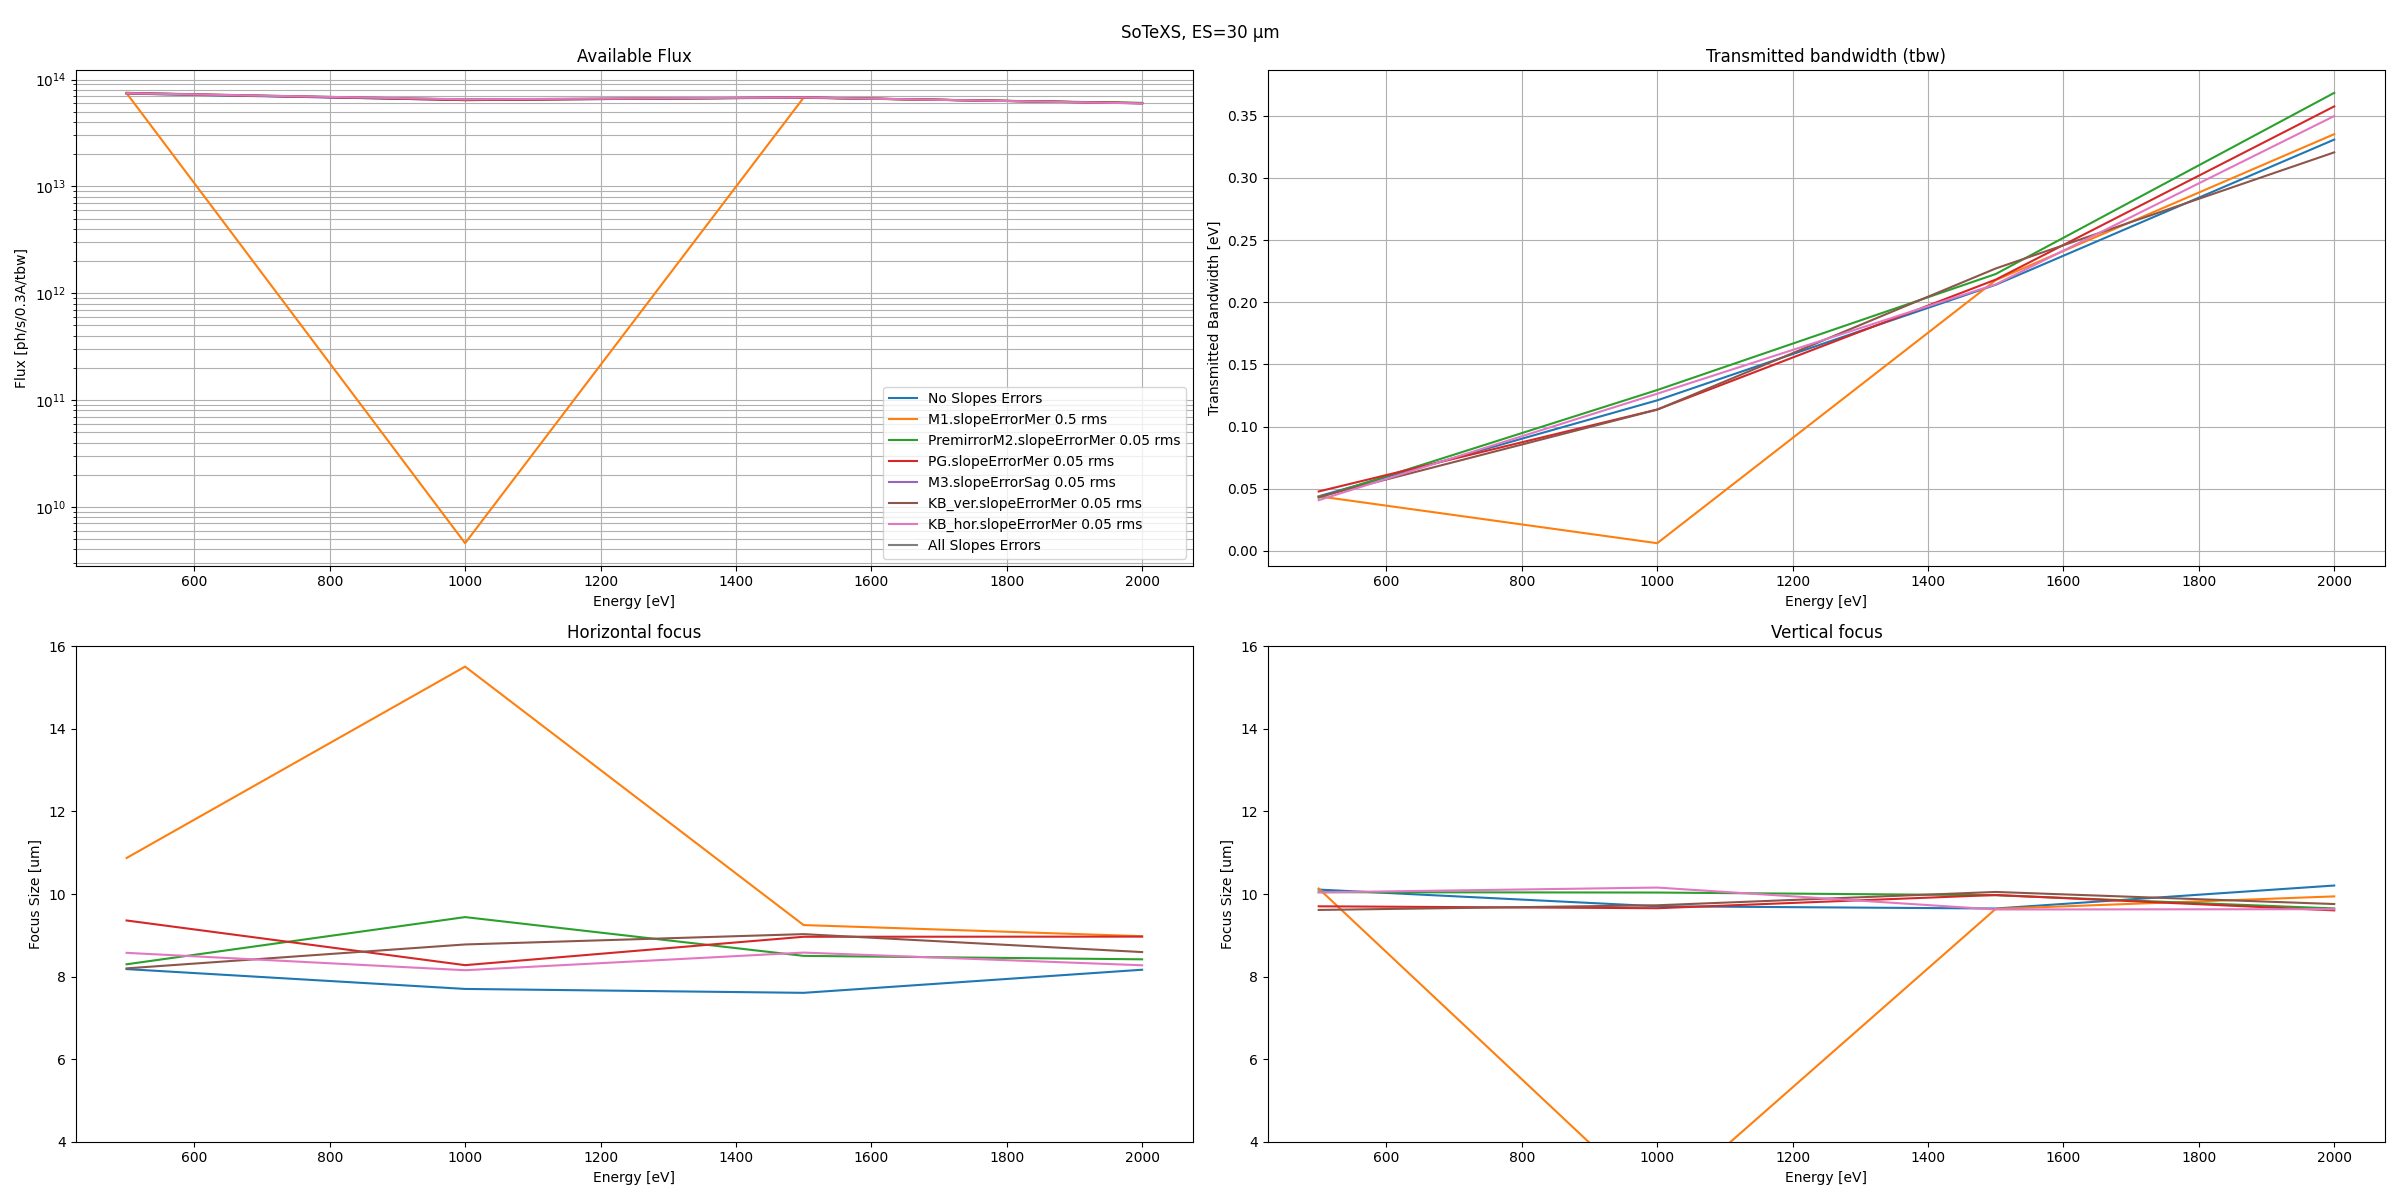
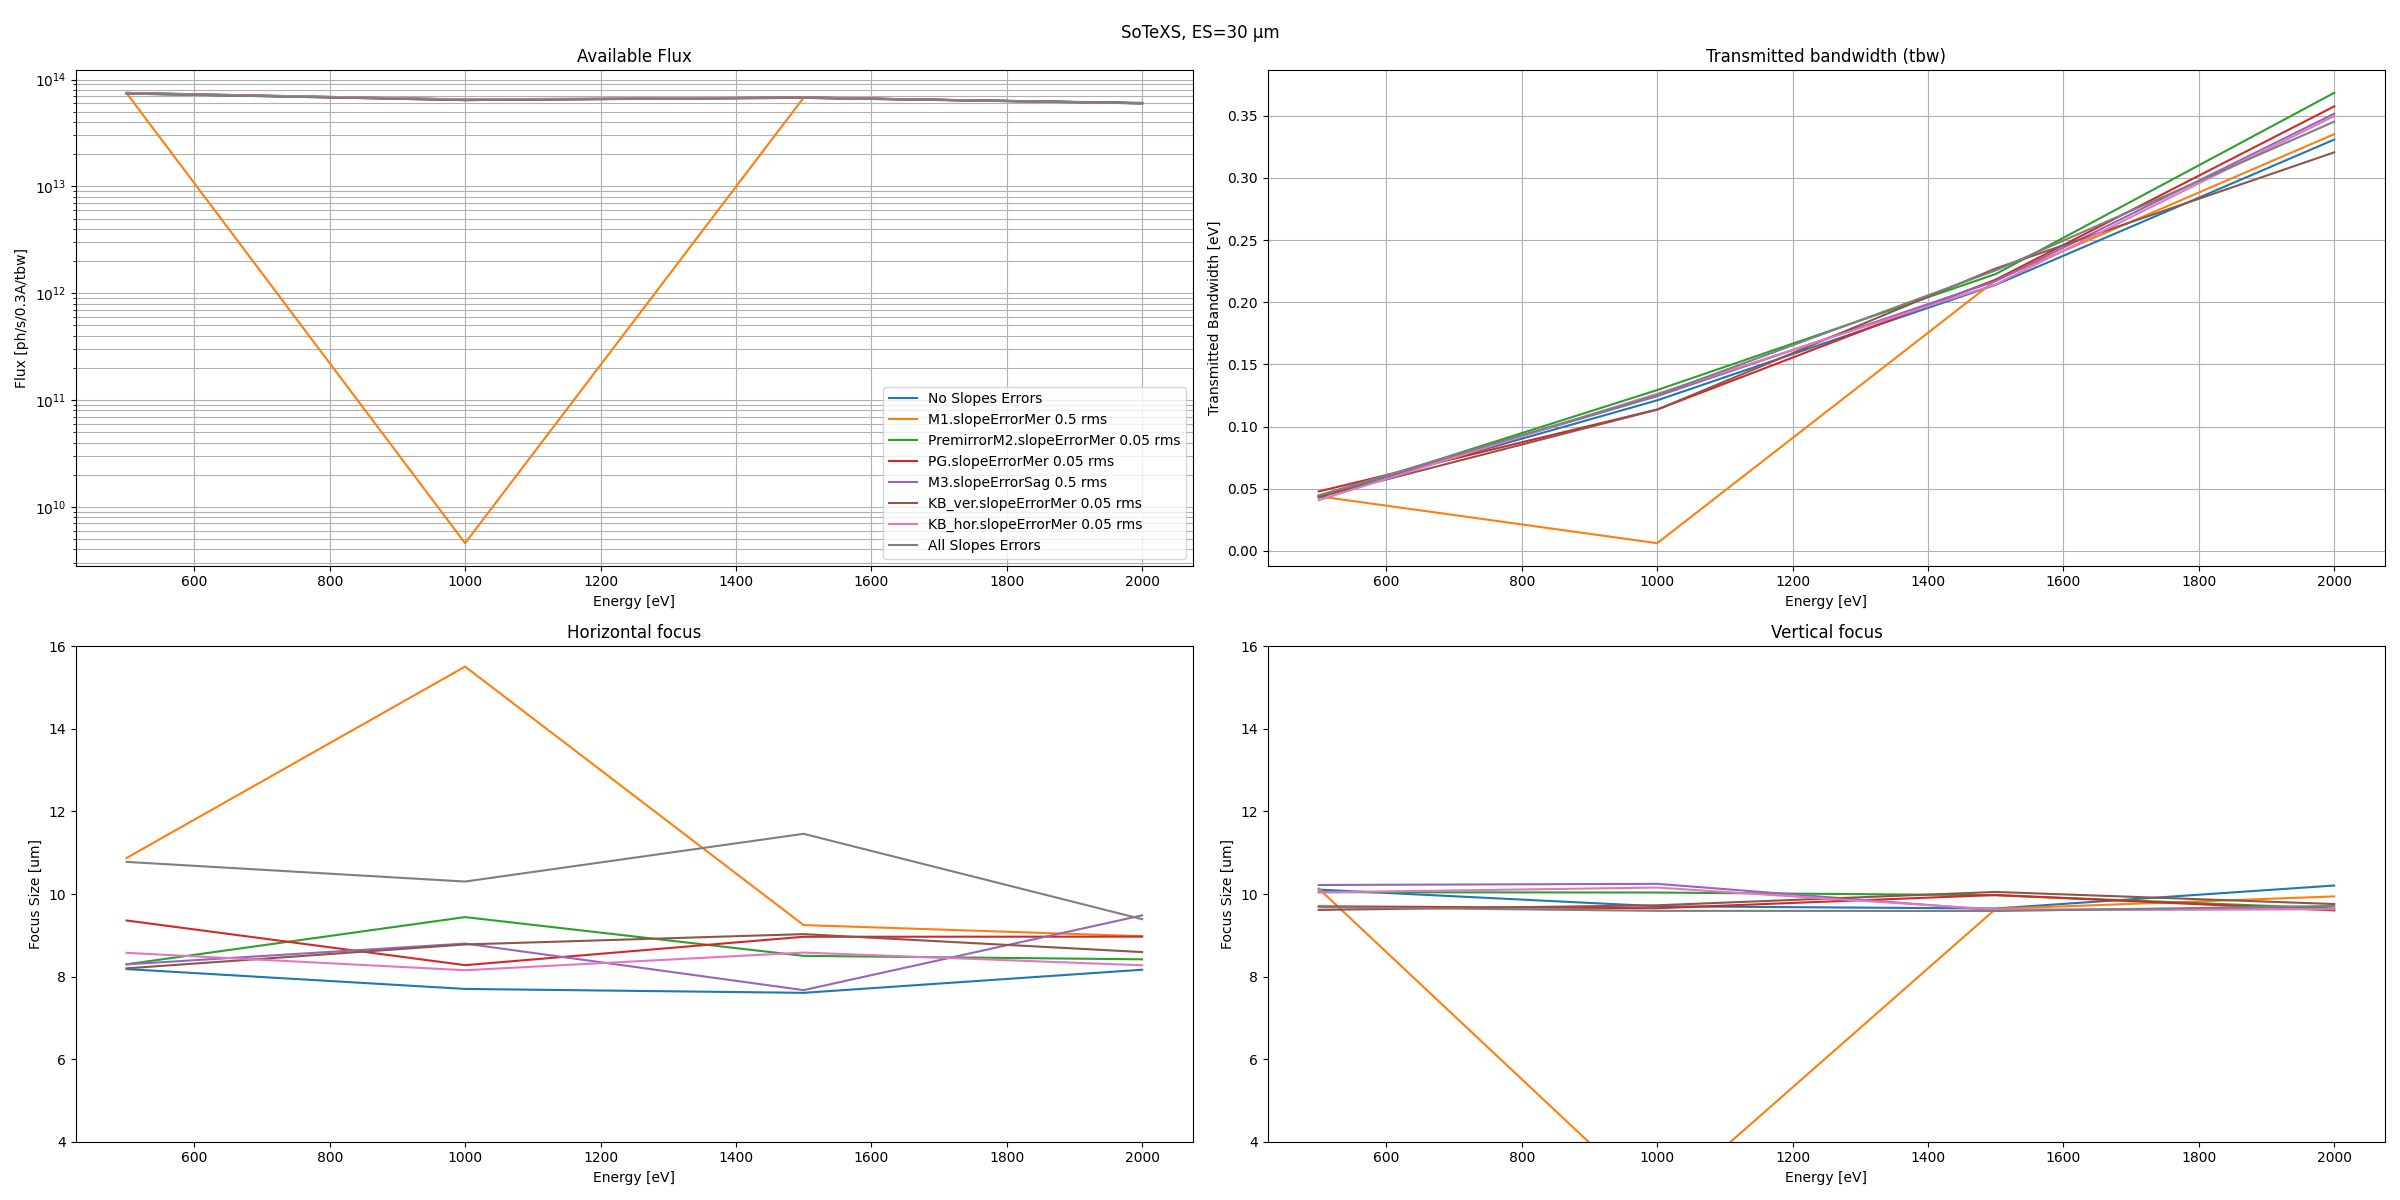
correct eval function

diff --git a/simulation/12/slopes_helper.py b/simulation/12/slopes_helper.py
@@ -17,11 +17,13 @@ def filter_df(df, col_to_set=None, value=None):
     filtered_df = df[mask.all(axis=1)]
     return filtered_df
 
-def filter_df_by_values(df, col_values):
+def filter_df_by_values(df, col_values, atol=1e-8, debug=False):
     """
     Filter the DataFrame by specifying a dictionary of {column: value} pairs.
-    Only rows matching all specified values will be returned.
+    Uses np.isclose for float comparisons.
+    If debug=True, prints matching info for each column.
     """
+    import numpy as np
     cols = [
         'M1.slopeErrorMer',
         'PremirrorM2.slopeErrorMer',
@@ -31,9 +33,19 @@ def filter_df_by_values(df, col_values):
         'KB_hor.slopeErrorMer'
     ]
     mask = pd.Series([True] * len(df), index=df.index)
+    if debug:
+        print("DEBUG: Unique values and matches per column:")
     for col, val in col_values.items():
         if col in cols:
-            mask &= (df[col] == val)
+            if np.issubdtype(df[col].dtype, np.floating):
+                col_mask = np.isclose(df[col], val, atol=atol)
+            else:
+                col_mask = (df[col] == val)
+            mask &= col_mask
+            if debug:
+                print(f"{col}: unique={df[col].unique()} | looking for {val} | matches={col_mask.sum()} | running total={mask.sum()}")
+    if debug:
+        print(f"DEBUG: Final number of matching rows: {mask.sum()}")
     filtered_df = df[mask]
     return filtered_df
 

diff --git a/simulation/12/eval_1200_slopes.py b/simulation/12/eval_1200_slopes.py
@@ -22,7 +22,7 @@ el_dict = {
         'M1.slopeErrorMer':0.5,
         'PremirrorM2.slopeErrorMer':0.05,
         'PG.slopeErrorMer':0.05,
-        'M3.slopeErrorSag':0.05,
+        'M3.slopeErrorSag':0.5,
         'KB_ver.slopeErrorMer':0.05,
         'KB_hor.slopeErrorMer':0.05
     }
@@ -34,7 +34,6 @@ for element,slope in el_dict.items():
     filtered_sim = filter_df(sim, col_to_set=element, value=slope)
     extract_and_plot(filtered_sim, axs, label=f'{element} {slope} rms')
 # worst case
-breakpoint()
 filtered_sim = filter_df_by_values(sim, el_dict)
 extract_and_plot(filtered_sim, axs, label=f'All Slopes Errors')
 
